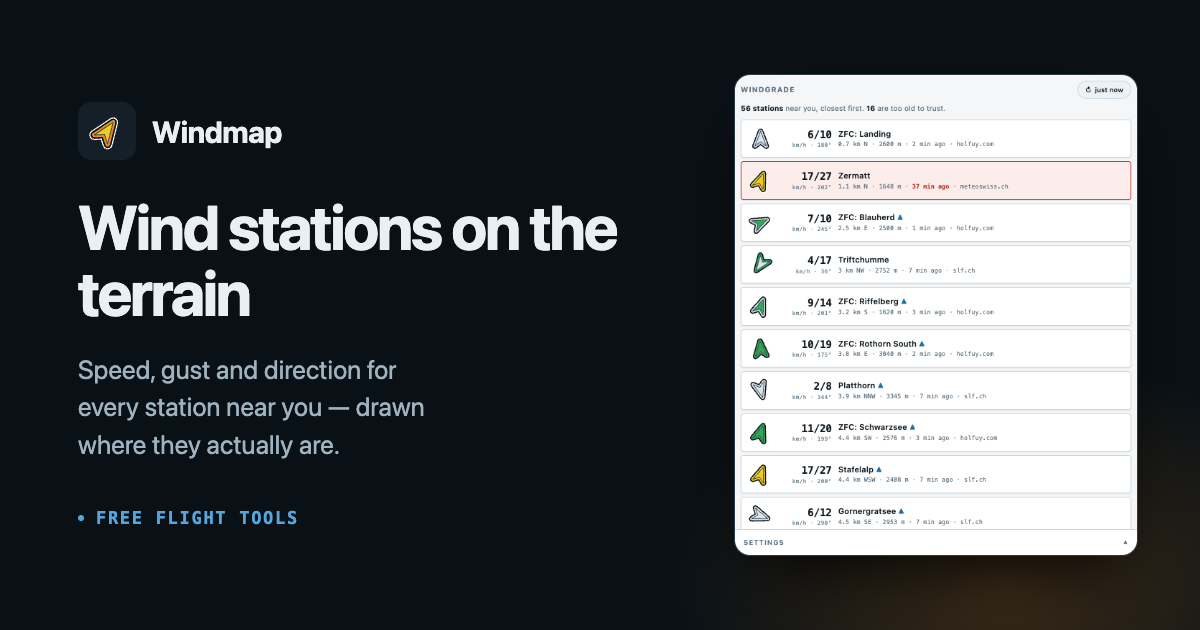
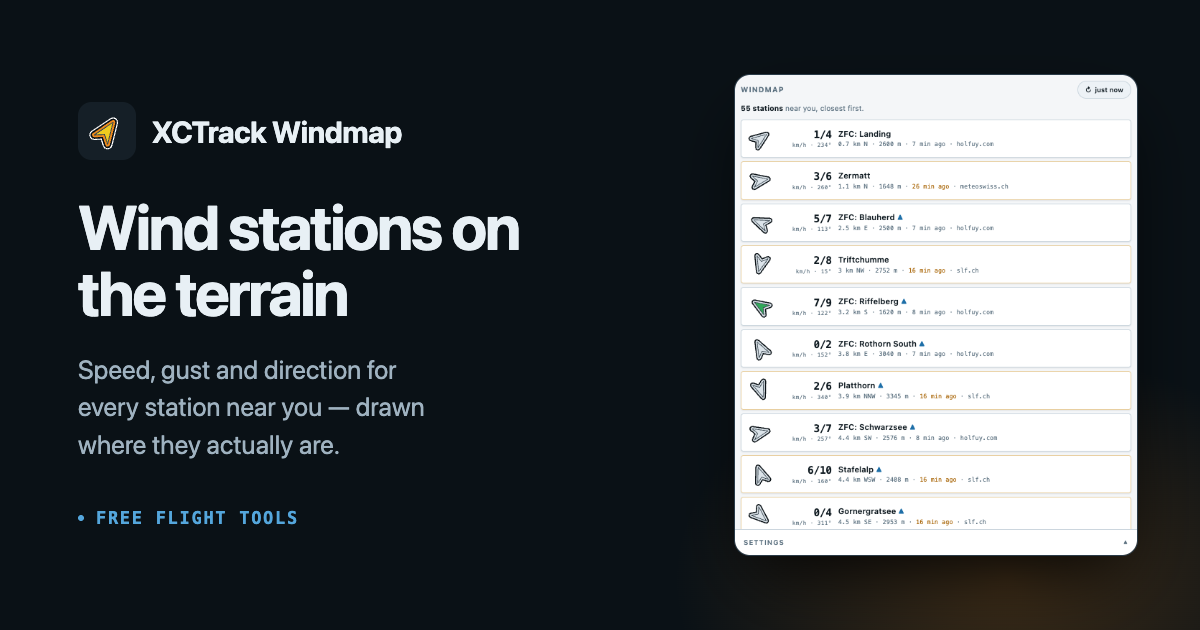
Rename the product to XCTrack Windmap
The repo is now freeflight-tools/xctrack-windmap, so the app calling
itself Windgrade in its title, header and manifest was an inconsistency a
pilot would see in the first link they were sent.

The name splits the way a manifest already expects it to. "XCTrack
Windmap" goes where the product is formally identified: every <title>,
the manifest `name`, the launcher's <h1>, and the og:title that chat apps
print. "Windmap" goes where the full name would crowd or repeat:
app.html's compact uppercase header, which sits beside the refresh pill
on a phone; the diagnostic pages; and index.html's prose, where every
surrounding sentence already says XCTrack.

Every replacement was explicit rather than a blanket substitution — the
two forms are not interchangeable, and internal keys are a third case
again. sw.js goes to windmap-v5 rather than v1 so the version lineage
stays monotonic; renaming it discards the old cache, which is what a
title change wants.

docs: the "windgrade is a placeholder" note in AGENTS.md, plan.md and
next-session.md is replaced by the rule above, and the stale remote and
Pages URLs are corrected. Raw probe output in findings.md is left as
recorded, with one dated note: the automatic Origin the winds.mobi API
now sees is https://freeflight-tools.github.io, which is the value quoted
in the question posted to their community.

og-card.html now pins theme=light. Without it the capture follows the
[…]

diff --git a/index.html b/index.html
@@ -4,7 +4,7 @@
 <meta charset="utf-8">
 <meta name="viewport" content="width=device-width,initial-scale=1,viewport-fit=cover">
 <meta name="theme-color" content="#0A1116">
-<title>Windgrade — nearby wind stations on terrain</title>
+<title>XCTrack Windmap — nearby wind stations on terrain</title>
 <link rel="manifest" href="manifest.webmanifest">
 <link rel="icon" type="image/svg+xml" href="icon.svg">
 <link rel="apple-touch-icon" href="icon-180.png">
@@ -13,7 +13,7 @@
 <meta name="description" content="Wind stations near you, drawn on the terrain they sit on. An XCTrack overlay for paraglider XC pilots.">
 <meta property="og:type" content="website">
 <meta property="og:site_name" content="Free Flight Tools">
-<meta property="og:title" content="Windmap — wind stations on the terrain">
+<meta property="og:title" content="XCTrack Windmap — wind stations on the terrain">
 <meta property="og:description" content="Speed, gust and direction for every station near you, drawn where they actually are.">
 <meta property="og:url" content="https://freeflight-tools.github.io/xctrack-windmap/">
 <meta property="og:image" content="https://freeflight-tools.github.io/xctrack-windmap/og-windmap.png">
@@ -90,7 +90,7 @@ a{color:var(--chart)}
 <body>
 <div class="wrap">
 
-  <h1>Windgrade</h1>
+  <h1>XCTrack Windmap</h1>
   <!-- The old intro explained what is wrong with other tools before saying what
        this one does. A pilot who has just arrived does not yet care. -->
   <p class="sub">
@@ -148,7 +148,7 @@ a{color:var(--chart)}
        wrong is silent. A pilot doing this on a phone will not read prose. -->
   <p class="note">
     In XCTrack, edit a page and add <b>two widgets on top of each other</b>: its
-    own map underneath, and Windgrade above it.
+    own map underneath, and Windmap above it.
   </p>
   <ol>
     <li>Add an <b>XC map</b> widget. Set its <b>scale</b> to <b id="stepScale">the
@@ -175,7 +175,7 @@ a{color:var(--chart)}
        name; the overlay resolves the scale on the device. Measured with
        tools/ruler.html — docs/findings.md 2026-08-11. -->
   <p class="note">
-    <b>Did it work?</b> Windgrade draws a small scale bar just above XCTrack's
+    <b>Did it work?</b> Windmap draws a small scale bar just above XCTrack's
     own. <b>If the two bars are the same length, you're set</b> — you never have
     to read either number. If they differ, change XCTrack's map scale until they
     match.
@@ -195,15 +195,15 @@ a{color:var(--chart)}
   <p class="note">
     Under <b>Advanced settings → Interactive mode</b>, and off by default. They
     need <b>Allow tapping on the web page when locked</b> turned <b>on</b> — and
-    once it is, Windgrade takes every tap over its own area, so <b>move
+    once it is, Windmap takes every tap over its own area, so <b>move
     XCTrack's zoom buttons outside it</b> or they will stop responding.
   </p>
   <ol>
     <li>Tap a station to see how its wind has changed over the last few hours.</li>
     <li>Add <b>+</b> and <b>−</b> buttons, or use the top and bottom of the
-      screen, to change Windgrade's scale.</li>
-    <li>That changes <b>Windgrade's</b> scale only — XCTrack doesn't let a web
-      page change its map. Windgrade says so at the bottom until you change the
+      screen, to change Windmap's scale.</li>
+    <li>That changes <b>Windmap's</b> scale only — XCTrack doesn't let a web
+      page change its map. Windmap says so at the bottom until you change the
       map to match.</li>
   </ol>
 

diff --git a/tools/og-card.html b/tools/og-card.html
@@ -19,7 +19,7 @@
        #    CENTRE, which silently lops the header off and cost an hour.
        "$CH" --headless=new --virtual-time-budget=15000 \
              --window-size=560,668 --screenshot=tools/og-shot.png \
-             "http://localhost:8080/app.html?lat=46.02&lng=7.75&size=0"
+             "http://localhost:8080/app.html?lat=46.02&lng=7.75&size=0&theme=light"
 
        # 2. the card
        "$CH" --headless=new --virtual-time-budget=5000 \
@@ -31,7 +31,15 @@
      cycle a third of the list is legitimately red. Measured at Zermatt on
      2026-08-13: 28 of 56 stale at 34 min after the hour, 16 of 56 eight
      minutes later. Both are correct output; only one makes a good card.
-     Holfuy runs ~6 min and is green almost always.
+     Holfuy runs ~6 min and is green almost always. On a genuinely calm
+     evening every arrow is near-white and the card looks washed out —
+     that is correct output too. Regenerate on a day with some wind.
+
+     `theme=light` is PINNED, not incidental. Without it the capture
+     follows the laptop's appearance setting, so the same command
+     produced a light card in the afternoon and a dark one after macOS
+     switched at sunset. The card has a dark ground either way; a light
+     screenshot is what gives it contrast.
      ═══════════════════════════════════════════════════════════════════ -->
 <style>
   @page{margin:0}
@@ -44,7 +52,7 @@
   .l{flex:1;padding:74px 0 74px 78px;display:flex;flex-direction:column;justify-content:center}
   .brand{display:flex;align-items:center;gap:16px;margin-bottom:34px}
   .brand .nm{font-size:30px;font-weight:700;letter-spacing:-.02em}
-  h1{font-size:62px;line-height:1.07;letter-spacing:-.034em;font-weight:700;max-width:14ch}
+  h1{font-size:62px;line-height:1.07;letter-spacing:-.034em;font-weight:700;max-width:13ch}
   p{margin-top:24px;font-size:26px;line-height:1.45;color:#9FB2C0;max-width:24ch}
   .foot{
     margin-top:44px;display:flex;align-items:center;gap:12px;
@@ -78,7 +86,7 @@
         <path d="M0,-11.75 L9,11.75 L0,4.75 L-9,11.75 Z" fill="#EFCB1F" stroke="#3A4750" stroke-width="1"/>
       </g>
     </svg>
-    <div class="nm">Windmap</div>
+    <div class="nm">XCTrack Windmap</div>
   </div>
   <h1>Wind stations on the terrain</h1>
   <p>Speed, gust and direction for every station near you — drawn where they actually are.</p>

diff --git a/app.html b/app.html
@@ -4,7 +4,7 @@
 <meta charset="utf-8">
 <meta name="viewport" content="width=device-width,initial-scale=1,viewport-fit=cover">
 <meta name="theme-color" content="#0A1116">
-<title>Windgrade — nearby wind stations</title>
+<title>XCTrack Windmap — nearby wind stations</title>
 <link rel="manifest" href="manifest.webmanifest">
 <link rel="icon" type="image/svg+xml" href="icon.svg">
 <link rel="apple-touch-icon" href="icon-180.png">
@@ -17,7 +17,7 @@
 <meta name="description" content="Wind stations near you, drawn on the terrain they sit on. Speed, gust and direction for paraglider XC pilots.">
 <meta property="og:type" content="website">
 <meta property="og:site_name" content="Free Flight Tools">
-<meta property="og:title" content="Windmap — wind stations on the terrain">
+<meta property="og:title" content="XCTrack Windmap — wind stations on the terrain">
 <meta property="og:description" content="Speed, gust and direction for every station near you, drawn where they actually are.">
 <meta property="og:url" content="https://freeflight-tools.github.io/xctrack-windmap/app.html">
 <meta property="og:image" content="https://freeflight-tools.github.io/xctrack-windmap/og-windmap.png">
@@ -135,7 +135,7 @@ footer:empty{display:none}
 <body>
 
 <div id="top">
-  <h1>Windgrade</h1>
+  <h1>Windmap</h1>
   <button id="bRef" type="button" title="Check for new readings">
     <i aria-hidden="true">↻</i><span id="age">…</span></button>
 </div>

diff --git a/tools.html b/tools.html
@@ -4,7 +4,7 @@
 <meta charset="utf-8">
 <meta name="viewport" content="width=device-width,initial-scale=1,viewport-fit=cover">
 <meta name="theme-color" content="#0A1116">
-<title>Windgrade — tools</title>
+<title>XCTrack Windmap — tools</title>
 <link rel="manifest" href="manifest.webmanifest">
 <link rel="icon" type="image/svg+xml" href="icon.svg">
 <link rel="apple-touch-icon" href="icon-180.png">
@@ -38,7 +38,7 @@ a{color:var(--chart)}
 
   <h1>Tools</h1>
   <p class="sub">
-    Diagnostic pages. You do not need any of these to fly with Windgrade — they
+    Diagnostic pages. You do not need any of these to fly with Windmap — they
     exist to check the overlay against XCTrack and to record what was measured.
   </p>
 
@@ -84,7 +84,7 @@ a{color:var(--chart)}
         the answer can be re-checked when XCTrack changes.</small></a>
   </div>
 
-  <a class="back" href="index.html">← Back to Windgrade</a>
+  <a class="back" href="index.html">← Back to Windmap</a>
 
   <footer>
     Unofficial, no warranty. Station data via <a href="https://winds.mobi">winds.mobi</a>.

diff --git a/probe.html b/probe.html
@@ -3,7 +3,7 @@
 <head>
 <meta charset="utf-8">
 <meta name="viewport" content="width=device-width,initial-scale=1,viewport-fit=cover">
-<title>Windgrade — capability probe</title>
+<title>XCTrack Windmap — capability probe</title>
 <style>
 :root{
   --ink:#0A1116; --panel:#151F27; --panel-hi:#1D2B36; --rule:#2A3B48;
@@ -46,7 +46,7 @@ pre{
 </head>
 <body>
 
-<h1>Windgrade probe</h1>
+<h1>Windmap probe</h1>
 <p class="sub" id="stamp"></p>
 
 <div class="big">
@@ -97,8 +97,8 @@ report 200 — a false negative. Only trust this test against the real host
    ════════════════════════════════════════════════════════════════ */
 
 var R = {};                       // collected results
-var BLOB_KEY = "/windgrade-probe-blob";
-var CACHE = "windgrade-probe";
+var BLOB_KEY = "/windmap-probe-blob";
+var CACHE = "windmap-probe";
 
 /* CORS candidates. Add any provider you're considering. */
 var CORS_TARGETS = [

diff --git a/tools/tap.html b/tools/tap.html
@@ -3,7 +3,7 @@
 <head>
 <meta charset="utf-8">
 <meta name="viewport" content="width=device-width,initial-scale=1,viewport-fit=cover">
-<title>Windgrade — tap pass-through probe</title>
+<title>XCTrack Windmap — tap pass-through probe</title>
 <style>
 /* Unpainted body, like the real widget: XCTrack renders white or absent as
    transparent, which is the only way this can sit over a map. */
@@ -222,7 +222,7 @@ el("clear").addEventListener("click", function(){
 });
 el("copy").addEventListener("click", function(){
   var btn = this;
-  var txt = "windgrade tap probe\nmode " + MODES[state.mode] + "\nXCTrack " + xct +
+  var txt = "windmap tap probe\nmode " + MODES[state.mode] + "\nXCTrack " + xct +
             "\nviewport " + window.innerWidth + "x" + window.innerHeight + "\n\n" +
             counts() + "\n\n" + state.log.join("\n");
   var done = function(){

diff --git a/tools/registration.html b/tools/registration.html
@@ -3,7 +3,7 @@
 <head>
 <meta charset="utf-8">
 <meta name="viewport" content="width=device-width,initial-scale=1,viewport-fit=cover">
-<title>Windgrade — overlay registration test</title>
+<title>XCTrack Windmap — overlay registration test</title>
 <style>
 /* body stays unpainted: XCTrack renders white/absent as transparent so the
    widget floats over its map. Every control carries its own background. */

diff --git a/tools/ruler.html b/tools/ruler.html
@@ -3,7 +3,7 @@
 <head>
 <meta charset="utf-8">
 <meta name="viewport" content="width=device-width,initial-scale=1,viewport-fit=cover">
-<title>Windgrade — CSS pixel ruler</title>
+<title>XCTrack Windmap — CSS pixel ruler</title>
 <style>
 /* Unpainted, like the widget: XCTrack renders white or absent as transparent. */
 html,body{margin:0;padding:0;background:transparent;height:100%;overflow:hidden}

diff --git a/sw.js b/sw.js
@@ -25,7 +25,7 @@
    the background revalidation picks those up on its own.
    ═══════════════════════════════════════════════════════════════════ */
 
-var CACHE = "windgrade-v4";
+var CACHE = "windmap-v5";
 
 var ASSETS = [
   "./",

diff --git a/widget.html b/widget.html
@@ -3,7 +3,7 @@
 <head>
 <meta charset="utf-8">
 <meta name="viewport" content="width=device-width,initial-scale=1,viewport-fit=cover">
-<title>Windgrade widget</title>
+<title>XCTrack Windmap widget</title>
 <style>
 /* The body stays UNPAINTED. XCTrack renders white or absent as transparent,
    which is what lets this float over its map. Never add a background. */

diff --git a/tools/nudge.html b/tools/nudge.html
@@ -3,7 +3,7 @@
 <head>
 <meta charset="utf-8">
 <meta name="viewport" content="width=device-width,initial-scale=1">
-<title>Windgrade — nudged markers over terrain</title>
+<title>XCTrack Windmap — nudged markers over terrain</title>
 <link rel="icon" type="image/svg+xml" href="../icon.svg">
 <style>
 body{margin:0;background:#0A1116;color:#E8F0F5;

diff --git a/tools/arrow.html b/tools/arrow.html
@@ -3,7 +3,7 @@
 <head>
 <meta charset="utf-8">
 <meta name="viewport" content="width=device-width,initial-scale=1">
-<title>Windgrade — marker geometry</title>
+<title>XCTrack Windmap — marker geometry</title>
 <style>
 body{margin:0;background:#0A1116;color:#E8F0F5;
   font:400 13px/1.4 system-ui,-apple-system,Roboto,sans-serif;padding:12px}
